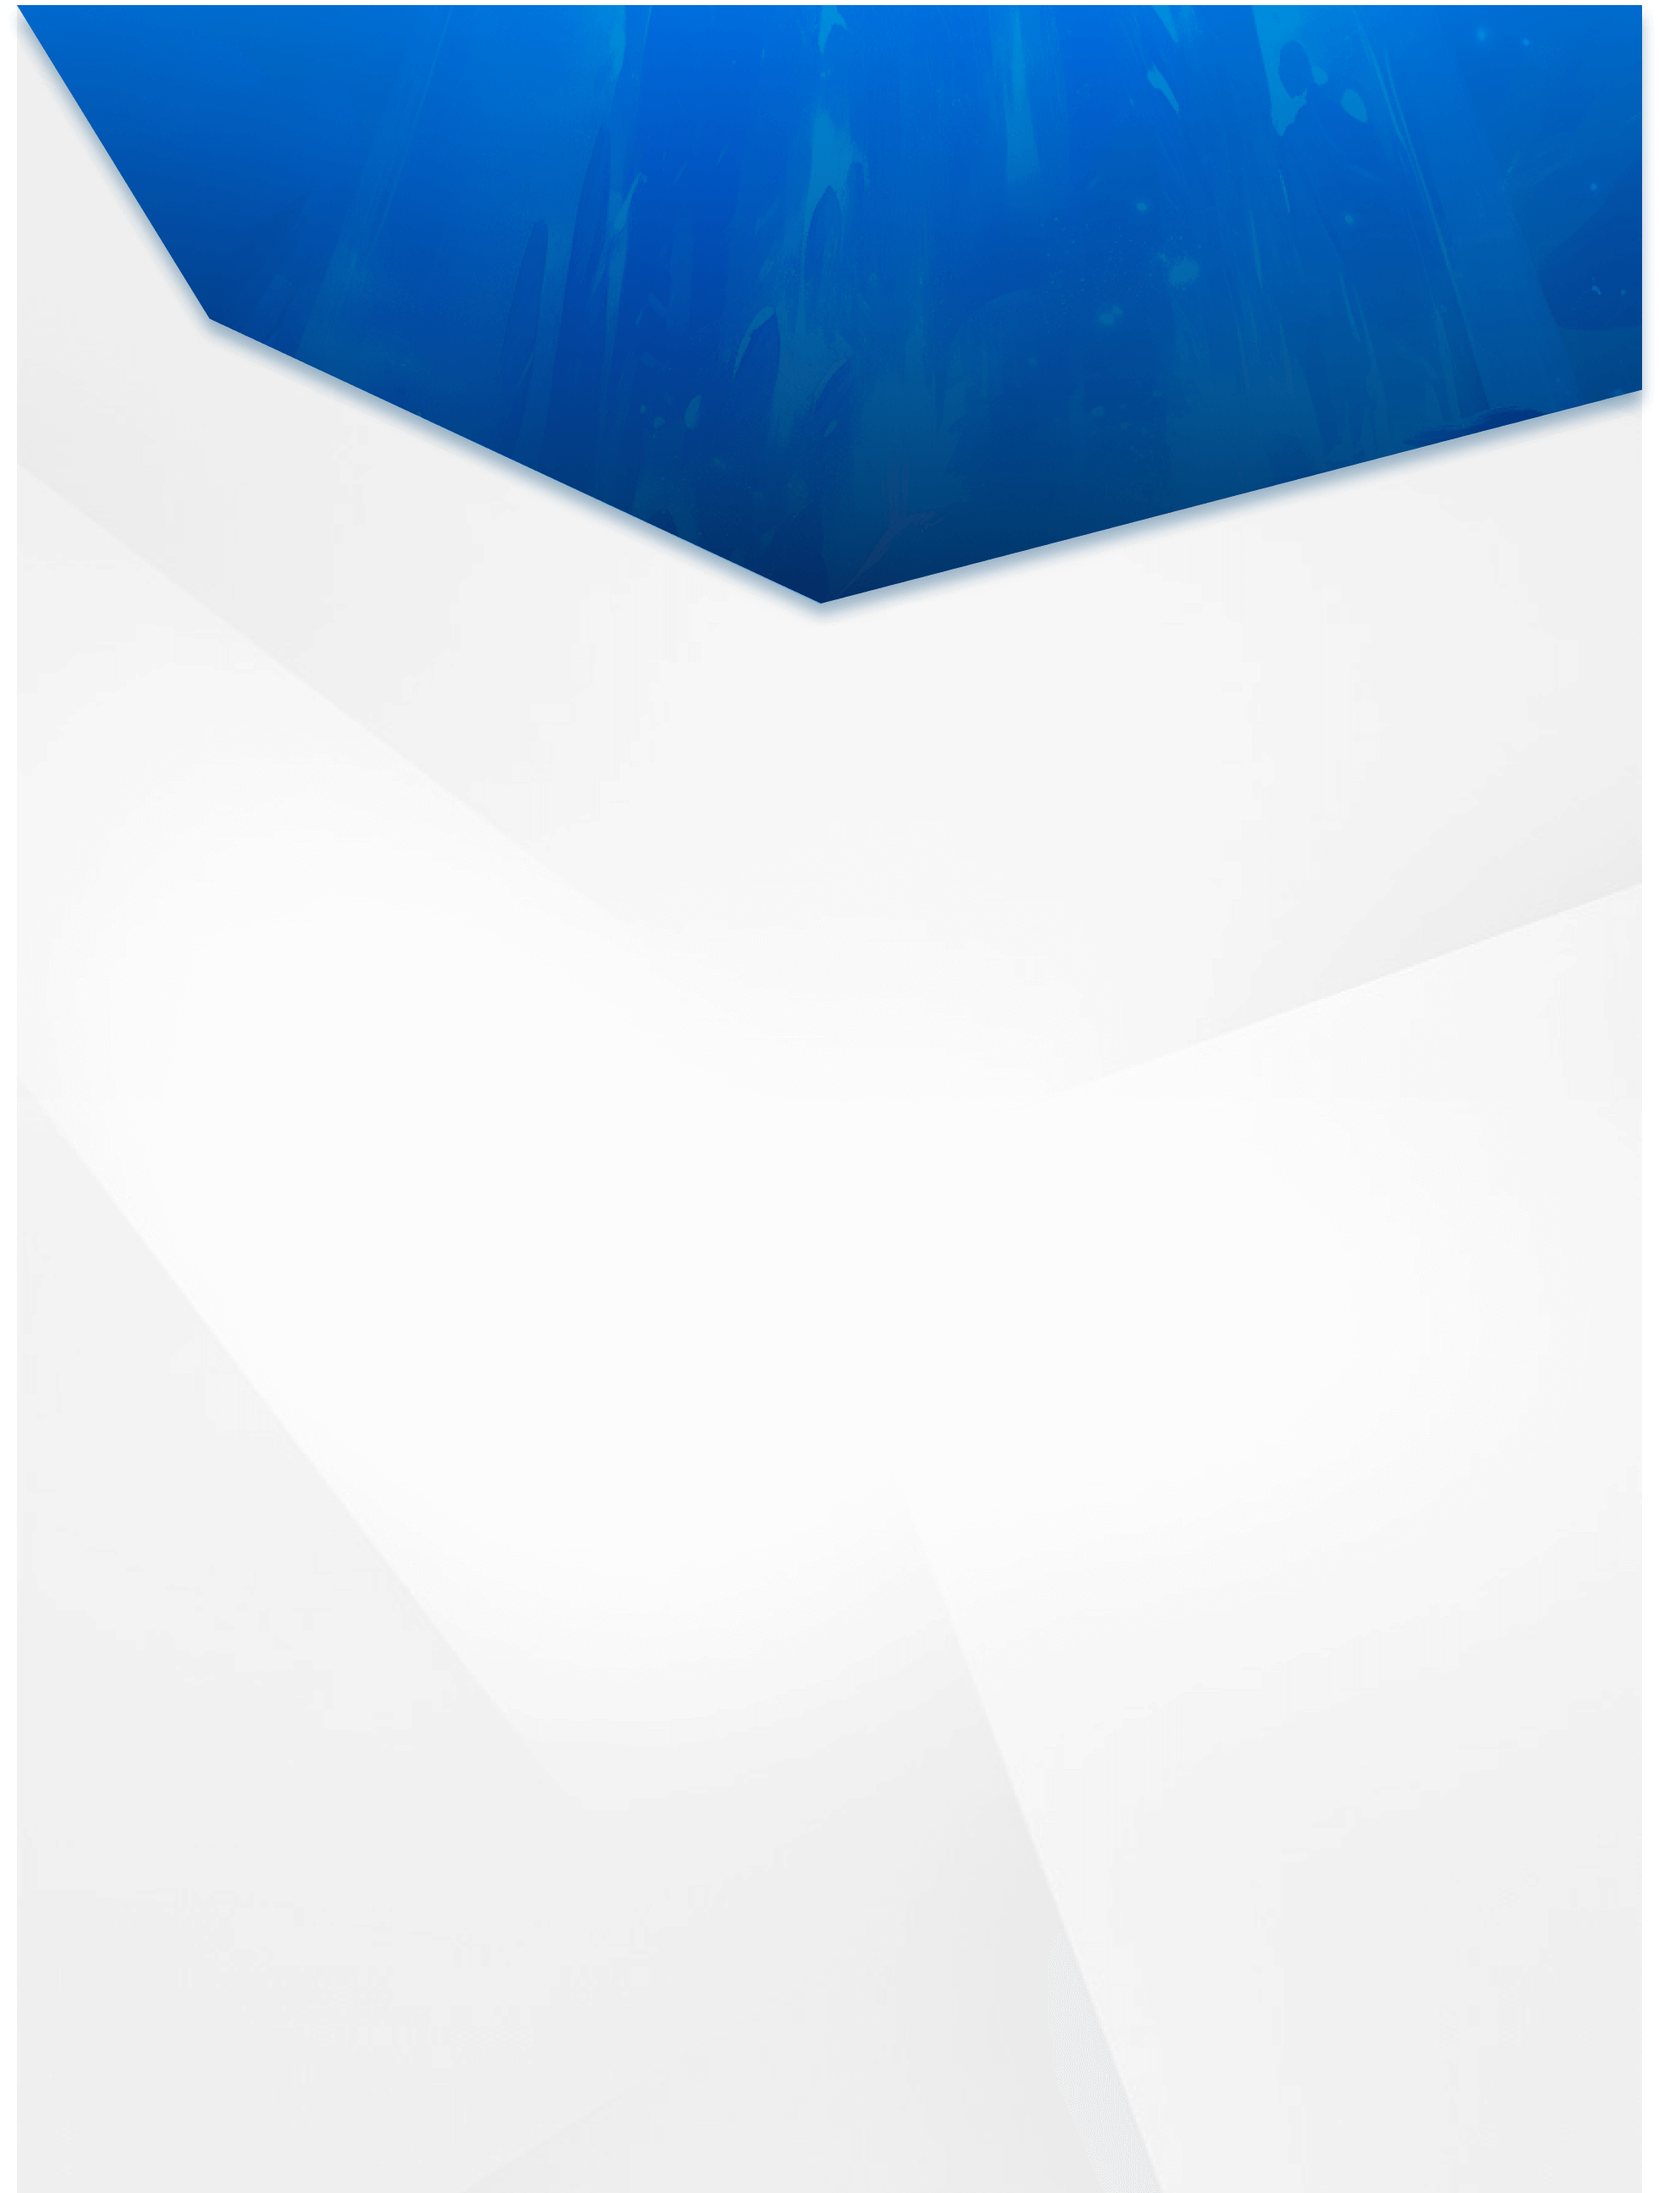
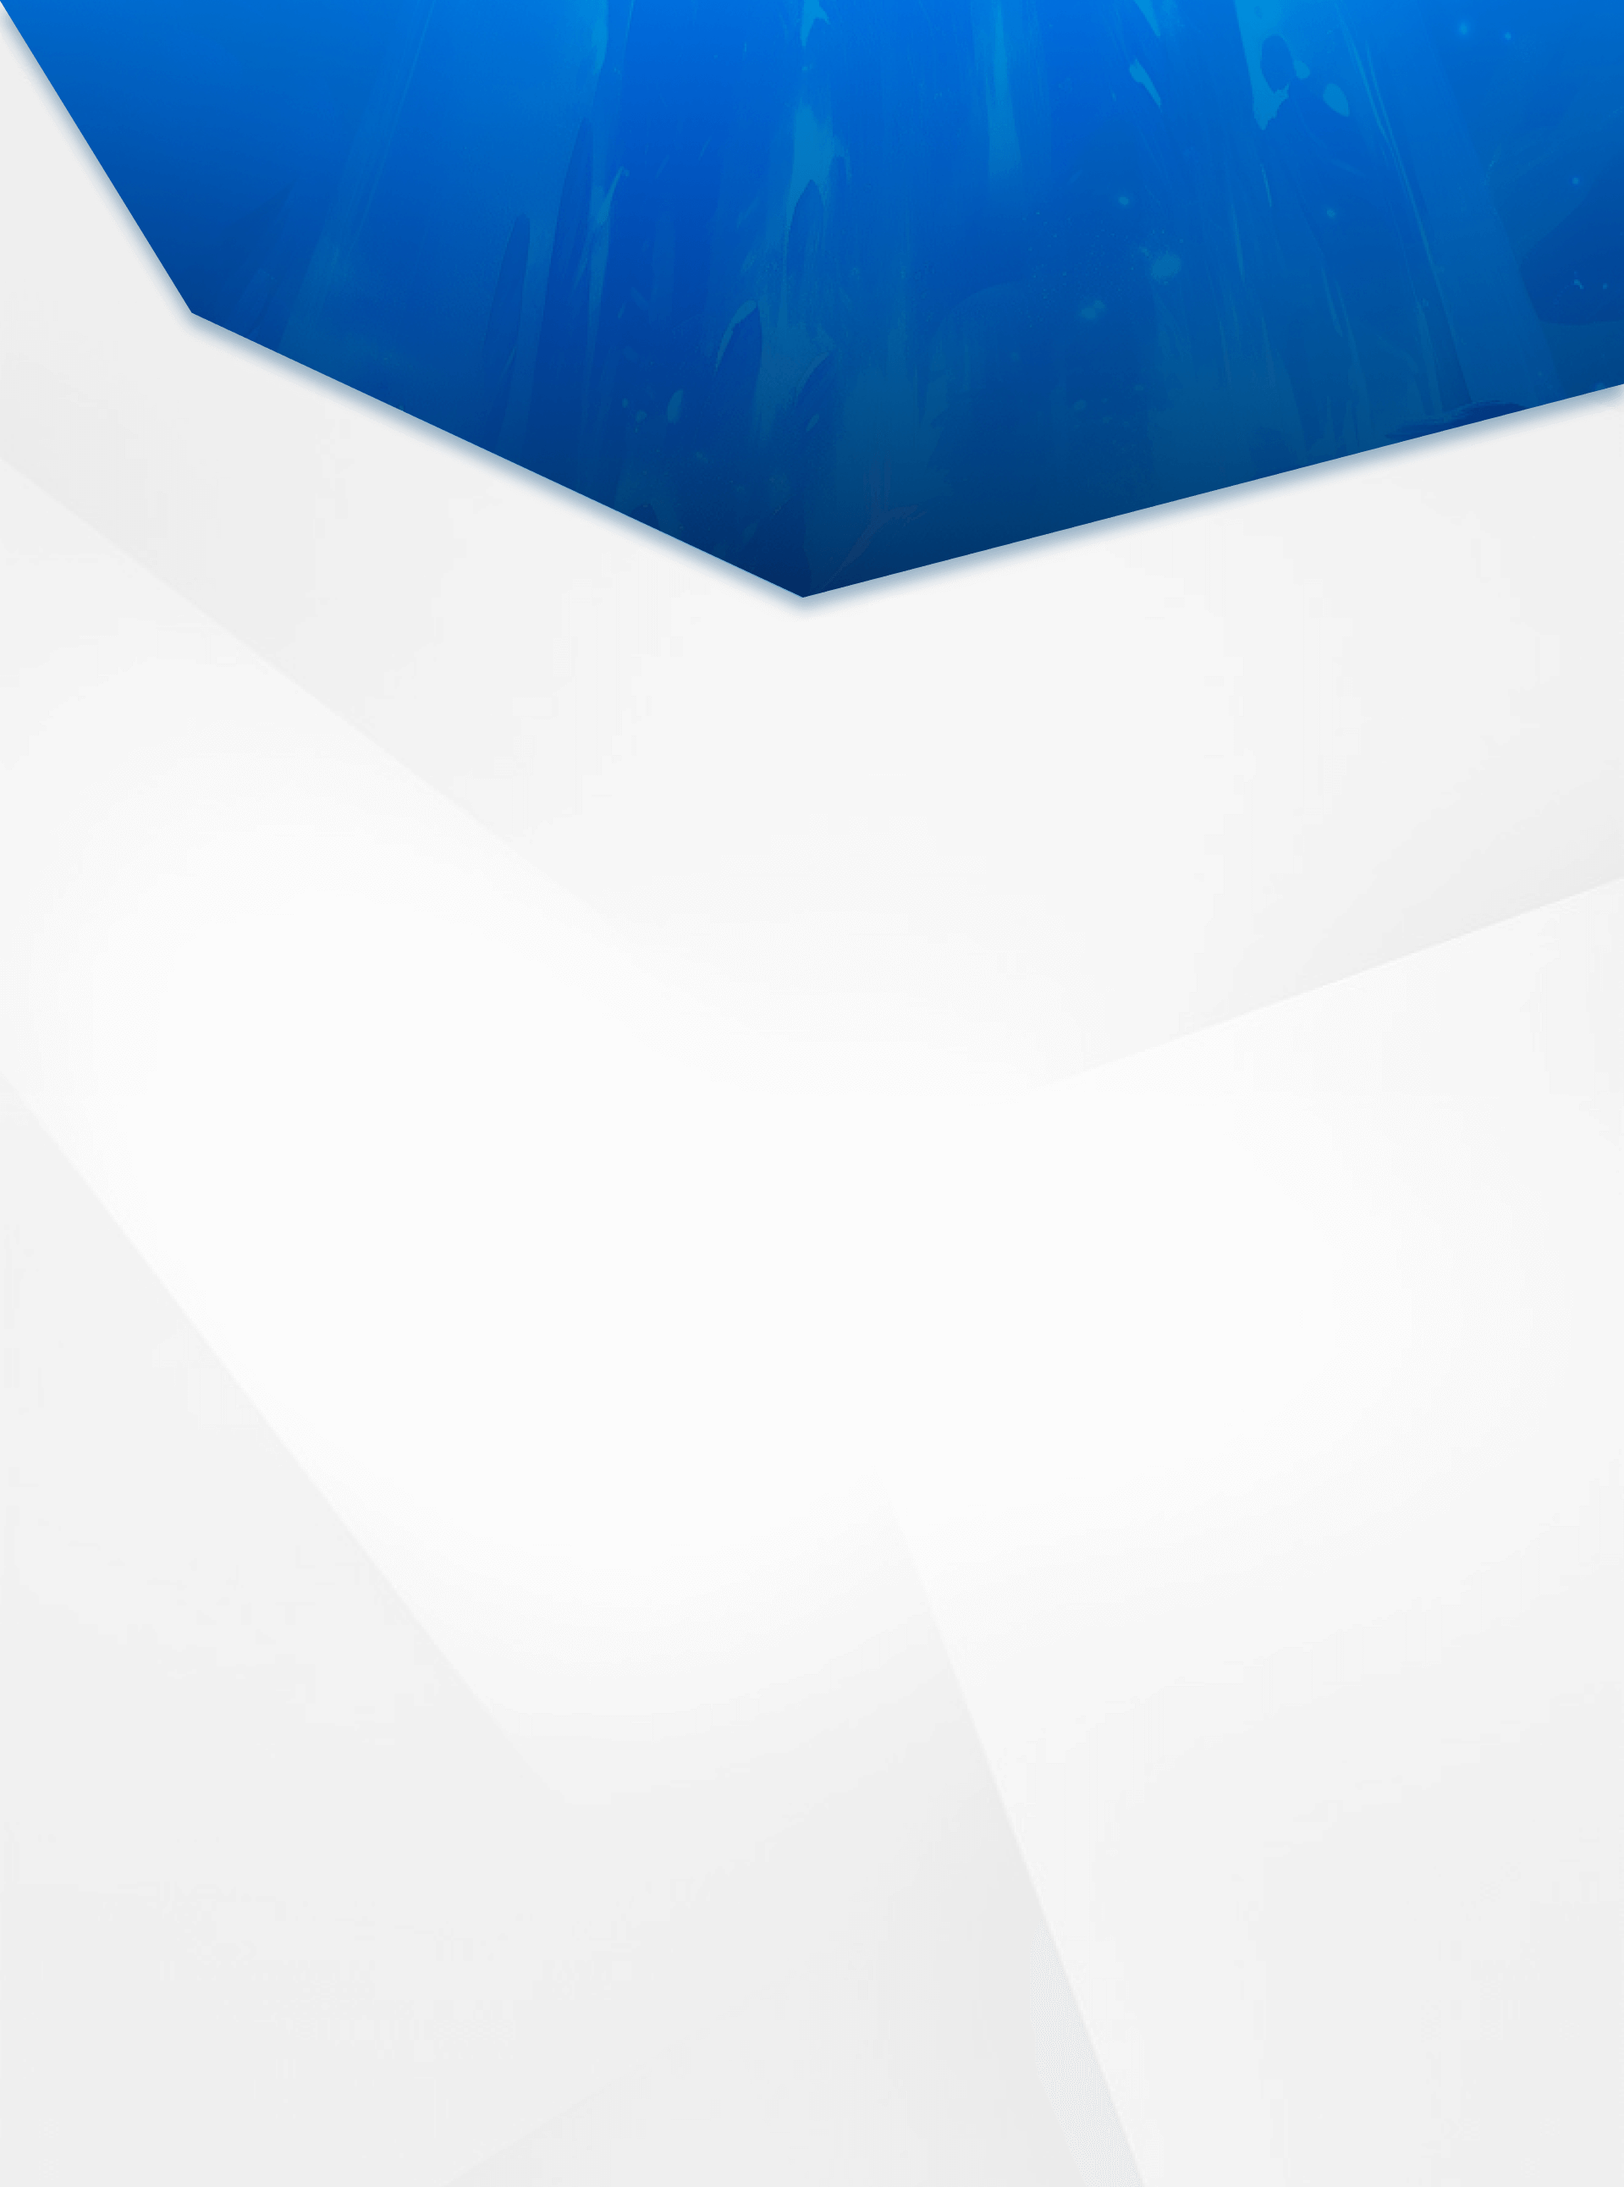
fix: [lh web] Bg take up whole width, fix incorrect digits in image

diff --git a/lh-static-web/src/views/AppTutorial.vue b/lh-static-web/src/views/AppTutorial.vue
@@ -53,7 +53,7 @@ onMounted(() => {
 <style lang="scss">
 .app-tutorial-container {
     background: url('../assets/images/app-tutorial/app-tutorial-bg.png') no-repeat center center;
-    // background-size: 100% 100%;
+    background-size: 100% 100%;
     display: flex;
     flex-direction: column;
     align-items: center;
